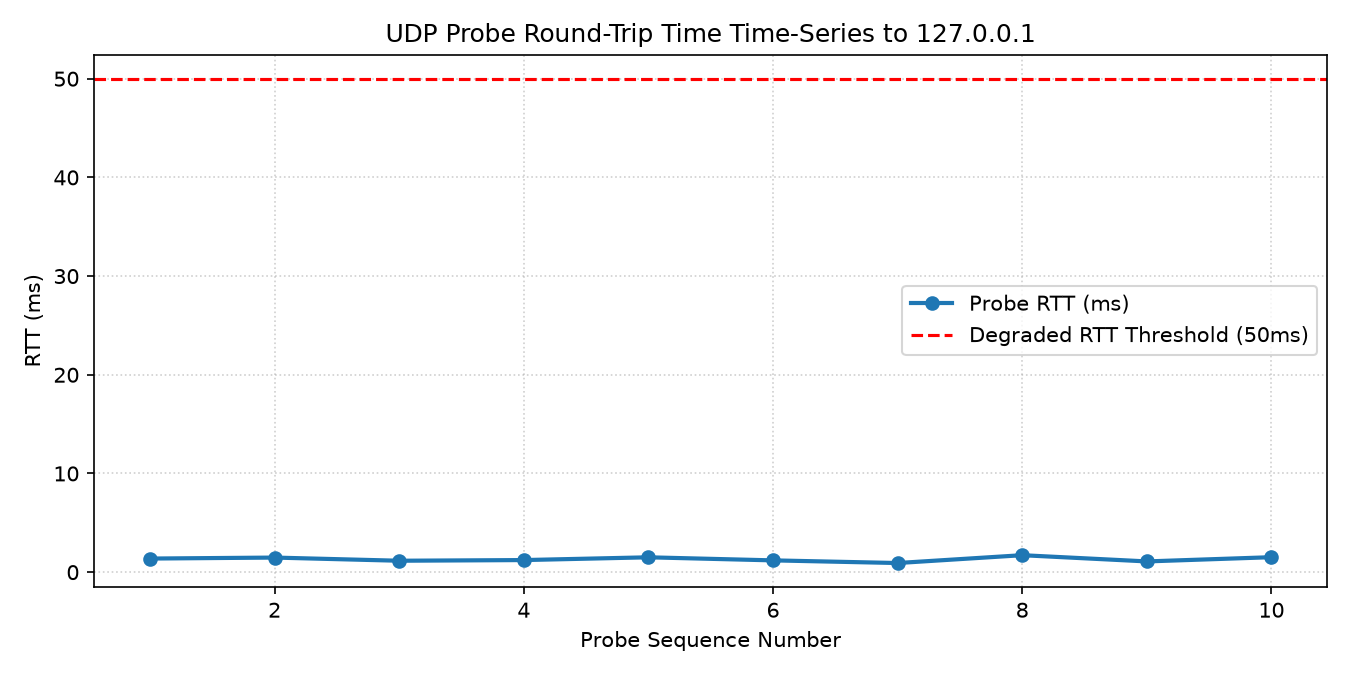
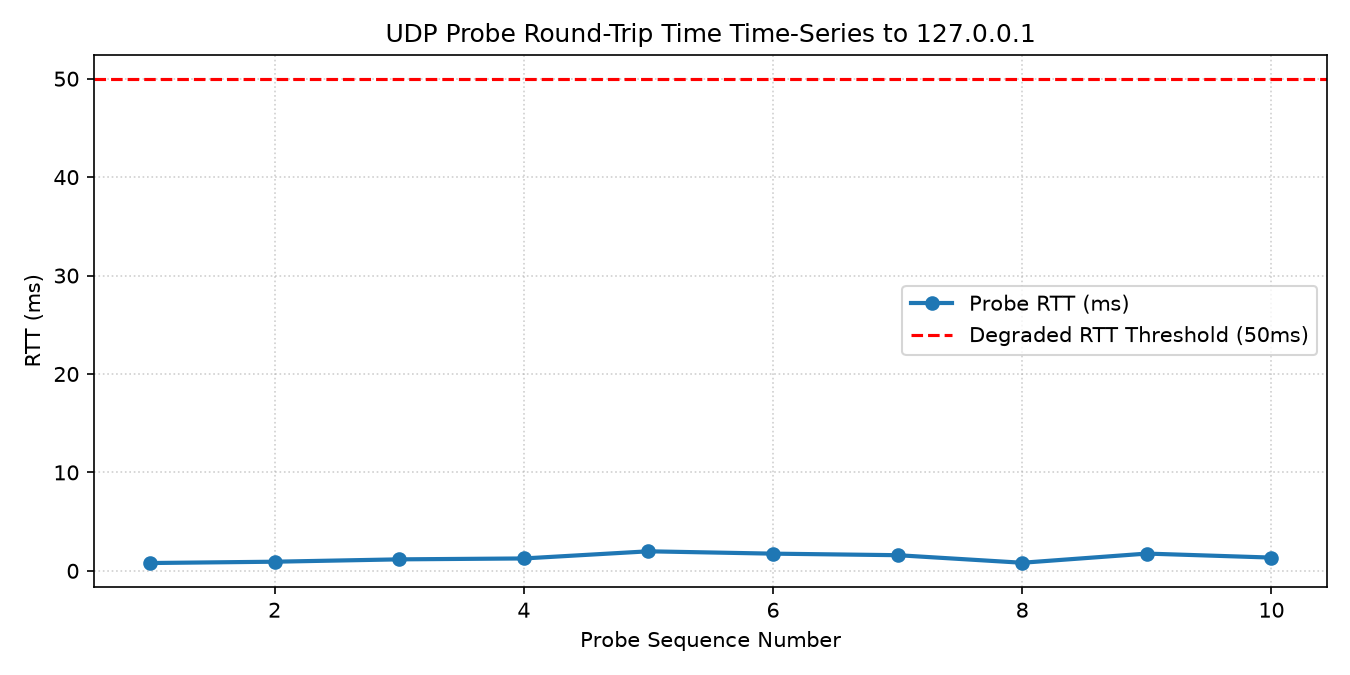
chore: refresh localhost demonstration artifacts

Changed region(s): [[0.0933, 0.8089, 0.9333, 0.84], [0.0311, 0.6844, 0.0622, 0.7156]]

diff --git a/results/demo_localhost/report.html b/results/demo_localhost/report.html
@@ -21,7 +21,7 @@
 <pre style="white-space: pre-wrap; font-family: inherit;">
 # SDN Network Diagnostic and Path Analysis Report
 
-**Timestamp:** `2026-10-19T16:59:24Z`  
+**Timestamp:** `2026-11-03T15:45:42Z`  
 **Overall Path Health:** 🟩 **HEALTHY** (`HEALTHY_PATH`)  
 **Endpoint Target:** `h1` -> `h2` (`127.0.0.1`)  
 **Path Identification Method:** `FLOW_TABLE`  
@@ -61,12 +61,12 @@
 |---|---|---|---|
 | **Probes Sent / Received** | `10` sent / `10` received | `10` / `10` | OK |
 | **Packet Loss Rate** | `0.00%` | `<= 0.0%` (Fail: `>= 50.0%`) | Normal |
-| **Mean RTT** | `1.32 ms` | `<= 50.0 ms` | Normal |
-| **Minimum / Maximum RTT** | `0.92 ms` / `1.72 ms` | N/A | Range Spread |
+| **Mean RTT** | `1.34 ms` | `<= 50.0 ms` | Normal |
+| **Minimum / Maximum RTT** | `0.79 ms` / `1.98 ms` | N/A | Range Spread |
 | **Median RTT** | `1.30 ms` | N/A | Central Tendency |
-| **95th Percentile RTT (p95)** | `1.63 ms` | N/A | Tail Latency Indicator |
-| **Standard Deviation Jitter** | `0.24 ms` | Low variation | Sample Deviation |
-| **RFC 3550 Inter-Arrival Jitter** | `0.17 ms` | Smoothed $J = J + (|D|-J)/16$ | Statistical Standard |
+| **95th Percentile RTT (p95)** | `1.88 ms` | N/A | Tail Latency Indicator |
+| **Standard Deviation Jitter** | `0.42 ms` | Low variation | Sample Deviation |
+| **RFC 3550 Inter-Arrival Jitter** | `0.19 ms` | Smoothed $J = J + (|D|-J)/16$ | Statistical Standard |
 
 
 ### RTT Time-Series Chart

diff --git a/results/demo_localhost/report.md b/results/demo_localhost/report.md
@@ -1,6 +1,6 @@
 # SDN Network Diagnostic and Path Analysis Report
 
-**Timestamp:** `2026-10-19T16:59:24Z`  
+**Timestamp:** `2026-11-03T15:45:42Z`  
 **Overall Path Health:** 🟩 **HEALTHY** (`HEALTHY_PATH`)  
 **Endpoint Target:** `h1` -> `h2` (`127.0.0.1`)  
 **Path Identification Method:** `FLOW_TABLE`  
@@ -40,12 +40,12 @@
 |---|---|---|---|
 | **Probes Sent / Received** | `10` sent / `10` received | `10` / `10` | OK |
 | **Packet Loss Rate** | `0.00%` | `<= 0.0%` (Fail: `>= 50.0%`) | Normal |
-| **Mean RTT** | `1.32 ms` | `<= 50.0 ms` | Normal |
-| **Minimum / Maximum RTT** | `0.92 ms` / `1.72 ms` | N/A | Range Spread |
+| **Mean RTT** | `1.34 ms` | `<= 50.0 ms` | Normal |
+| **Minimum / Maximum RTT** | `0.79 ms` / `1.98 ms` | N/A | Range Spread |
 | **Median RTT** | `1.30 ms` | N/A | Central Tendency |
-| **95th Percentile RTT (p95)** | `1.63 ms` | N/A | Tail Latency Indicator |
-| **Standard Deviation Jitter** | `0.24 ms` | Low variation | Sample Deviation |
-| **RFC 3550 Inter-Arrival Jitter** | `0.17 ms` | Smoothed $J = J + (|D|-J)/16$ | Statistical Standard |
+| **95th Percentile RTT (p95)** | `1.88 ms` | N/A | Tail Latency Indicator |
+| **Standard Deviation Jitter** | `0.42 ms` | Low variation | Sample Deviation |
+| **RFC 3550 Inter-Arrival Jitter** | `0.19 ms` | Smoothed $J = J + (|D|-J)/16$ | Statistical Standard |
 
 
 ### RTT Time-Series Chart
